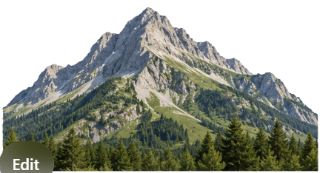
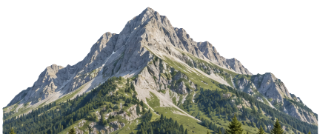
Φωνολογική Επίγνωση: new mountain picture, and a version on the picture links

diff --git a/eidiki-ekpaideysi/fonologiki-epignosi/paixnidi/js/pictures.js b/eidiki-ekpaideysi/fonologiki-epignosi/paixnidi/js/pictures.js
@@ -27,11 +27,14 @@
     // τα κλειδιά περνούν από την ίδια fold() (π.χ. το τελικό ς γίνεται σ), ώστε να ταιριάζουν με τις λέξεις του παιχνιδιού
     const MAP = {}; Object.keys(PICS).forEach((k) => { MAP[fold(k)] = PICS[k]; });
 
+    // αύξησε τον αριθμό όταν αλλάζεις κάποια εικόνα, για να την ξαναφορτώσουν οι browsers
+    const V = 2;
+
     const wrap = (emoji, word) => {
         const file = MAP[fold(word)];
         if (!file || !emoji) return emoji;
         const s = new String(String(emoji));
-        s.img = 'img/pics/' + file + '.png';
+        s.img = 'img/pics/' + file + '.png?v=' + V;
         return s;
     };
 
@@ -47,7 +50,7 @@
     // προφόρτωση, λίγο μετά την εκκίνηση και μία-μία, ώστε να μη καθυστερεί η πρώτη οθόνη
     try {
         const files = [...new Set(Object.values(PICS))];
-        let k = 0; const tick = () => { if (k >= files.length) return; const i = new Image(); i.src = 'img/pics/' + files[k++] + '.png'; setTimeout(tick, 120); };
+        let k = 0; const tick = () => { if (k >= files.length) return; const i = new Image(); i.src = 'img/pics/' + files[k++] + '.png?v=' + V; setTimeout(tick, 120); };
         setTimeout(tick, 2500);
     } catch (e) {}
 

diff --git a/eidiki-ekpaideysi/fonologiki-epignosi/paixnidi/index.html b/eidiki-ekpaideysi/fonologiki-epignosi/paixnidi/index.html
@@ -59,7 +59,7 @@
     <script src="js/games/level3.js?v=91"></script>
     <script src="js/games/level4.js?v=91"></script>
     <script src="js/games/level5.js?v=91"></script>
-    <script src="js/pictures.js?v=94"></script>
+    <script src="js/pictures.js?v=95"></script>
     <script src="js/app.js?v=92"></script>
 </body>
 </html>
